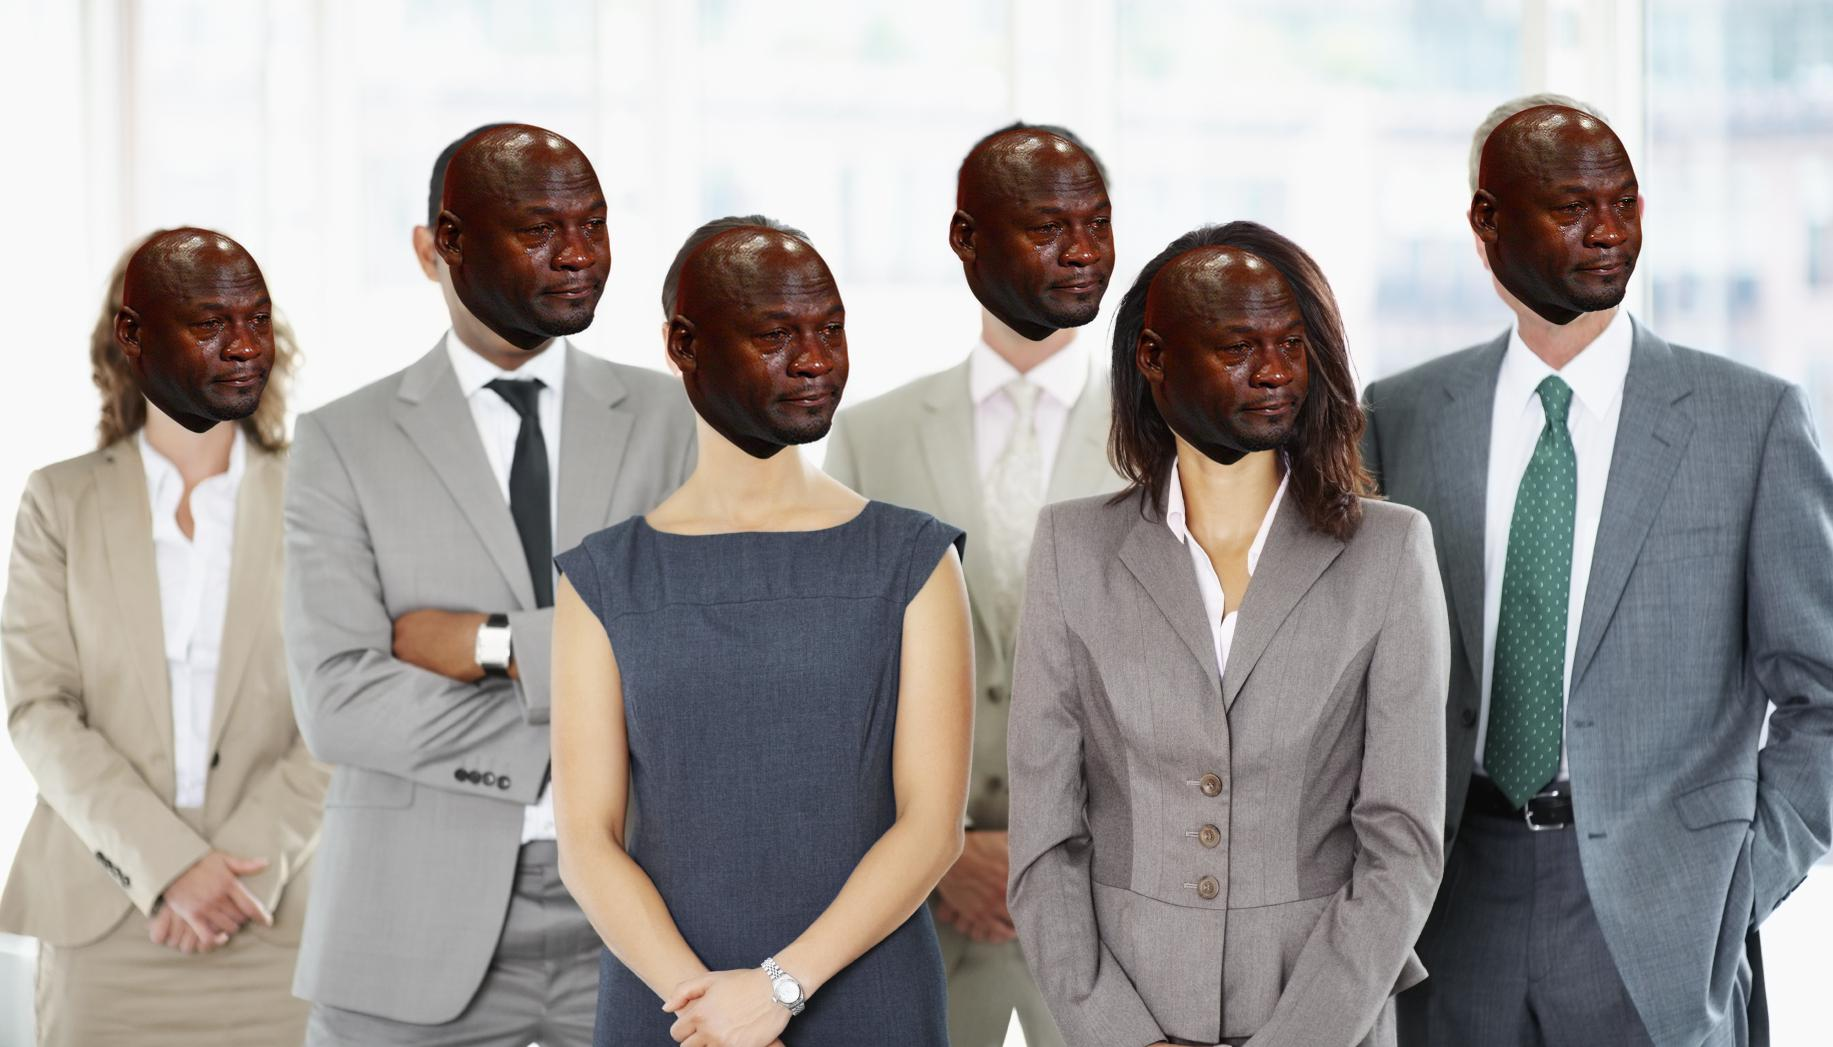
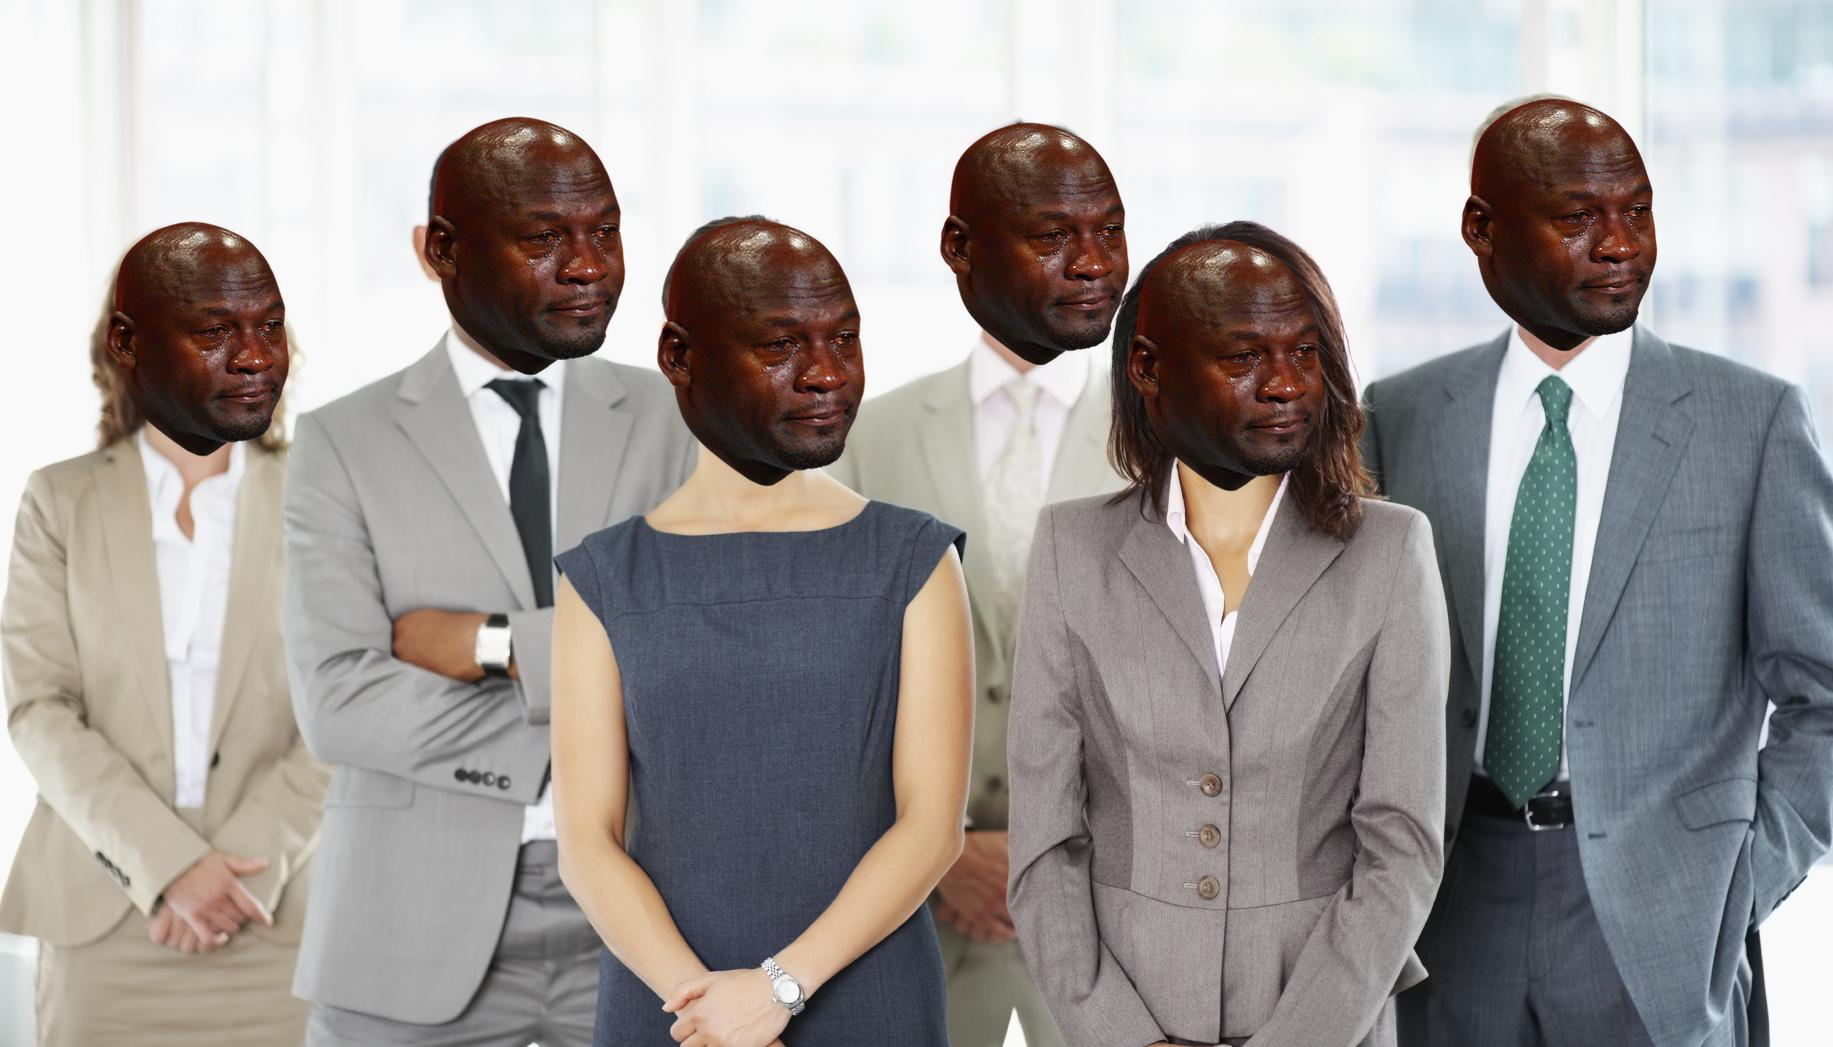
Improved face-fitting logic

diff --git a/jordanify/lib/jordan.py b/jordanify/lib/jordan.py
@@ -35,10 +35,10 @@ def get_faces(imagepath):
 
 def apply_jordans(image, jordan, faces):
     for face in faces:
-        width = (int)(face['width'] * 1.1)
-        height = (int)(face['height'] * 1.4)
+        width = (int)(face['width'] * 1.25)
+        height = (int)(face['height'] * 1.6)
         jordan = jordan.resize((width, height), Image.ANTIALIAS)
-        image.paste(jordan, (face['x'], face['y'] - (int)(height * 0.2)), jordan)
+        image.paste(jordan, (face['x'] - (int)(width * 0.05), face['y'] - (int)(height * 0.2)), jordan)
         
     return image
 
